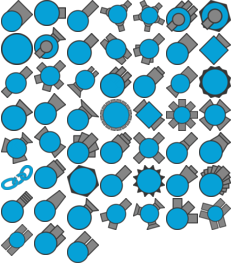
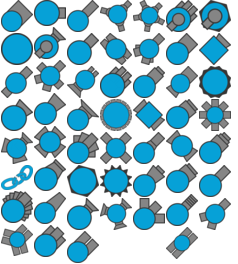
added new-skimmer image

Changed region(s): [[0.4118, 0.3636, 0.9706, 1.0], [0.0, 0.5455, 0.2941, 1.0], [0.2059, 0.4848, 0.2941, 0.5455]]

diff --git a/resources/assets/sass/_tanks.scss b/resources/assets/sass/_tanks.scss
@@ -5,12 +5,12 @@
 .battleship, .booster, .destroyer, .factory, .fighter,
 .flank-guard, .gunner-trapper, .gunner, .hunter, .hybrid,
 .landmine, .machine-gun, .manager, .mega-trapper, .mothership,
-.necromancer, .octo-tank, .overlord, .overseer, .overtrapper,
-.penta-shot, .predator, .quad-tank, .ranger, .rocketeer,
-.skimmer, .slave, .smasher, .sniper, .spike,
-.sprayer, .spread-shot, .stalker, .streamliner, .trapper,
-.tri-angle, .tri-trapper, .triple-shot, .triple-twin, .triplet,
-.twin-flank, .twin
+.necromancer, .new-skimmer, .octo-tank, .overlord, .overseer,
+.overtrapper, .penta-shot, .predator, .quad-tank, .ranger,
+.rocketeer, .skimmer, .slave, .smasher, .sniper,
+.spike, .sprayer, .spread-shot, .stalker, .streamliner,
+.trapper, .tri-angle, .tri-trapper, .triple-shot, .triple-twin,
+.triplet, .twin-flank, .twin
 { display: inline-block; background: url('images/tanks.png') no-repeat; overflow: hidden; text-indent: -9999px; text-align: left; }
 
 .annihilator { background-position: -1px -0px; width: 32px; height: 32px; }
@@ -39,29 +39,30 @@
 .mega-trapper { background-position: -67px -99px; width: 32px; height: 32px; }
 .mothership { background-position: -100px -99px; width: 32px; height: 32px; }
 .necromancer { background-position: -133px -99px; width: 32px; height: 32px; }
-.octo-tank { background-position: -166px -99px; width: 32px; height: 32px; }
-.overlord { background-position: -199px -99px; width: 32px; height: 32px; }
-.overseer { background-position: -34px -126px; width: 32px; height: 32px; }
+.new-skimmer { background-position: -166px -99px; width: 32px; height: 30px; }
+.octo-tank { background-position: -199px -99px; width: 32px; height: 32px; }
+.overlord { background-position: -34px -126px; width: 32px; height: 32px; }
+.overseer { background-position: -166px -130px; width: 32px; height: 32px; }
 .overtrapper { background-position: -1px -132px; width: 32px; height: 32px; }
 .penta-shot { background-position: -67px -132px; width: 32px; height: 32px; }
-.predator { background-position: -100px -132px; width: 32px; height: 32px; }
-.quad-tank { background-position: -133px -132px; width: 32px; height: 32px; }
-.ranger { background-position: -166px -132px; width: 32px; height: 32px; }
-.rocketeer { background-position: -199px -132px; width: 32px; height: 32px; }
-.skimmer { background-position: -34px -159px; width: 32px; height: 30px; }
+.predator { background-position: -199px -132px; width: 32px; height: 32px; }
+.quad-tank { background-position: -100px -132px; width: 32px; height: 32px; }
+.ranger { background-position: -133px -132px; width: 32px; height: 32px; }
+.rocketeer { background-position: -34px -159px; width: 32px; height: 32px; }
+.skimmer { background-position: -166px -163px; width: 32px; height: 30px; }
 .slave { background-position: -1px -165px; width: 32px; height: 25px; }
 .smasher { background-position: -67px -165px; width: 32px; height: 32px; }
-.sniper { background-position: -100px -165px; width: 32px; height: 32px; }
-.spike { background-position: -133px -165px; width: 32px; height: 32px; }
-.sprayer { background-position: -166px -165px; width: 32px; height: 32px; }
-.spread-shot { background-position: -199px -165px; width: 32px; height: 32px; }
-.stalker { background-position: -34px -190px; width: 32px; height: 32px; }
-.streamliner { background-position: -1px -191px; width: 32px; height: 32px; }
+.sniper { background-position: -199px -165px; width: 32px; height: 32px; }
+.spike { background-position: -100px -165px; width: 32px; height: 32px; }
+.sprayer { background-position: -133px -165px; width: 32px; height: 32px; }
+.spread-shot { background-position: -1px -191px; width: 32px; height: 32px; }
+.stalker { background-position: -34px -192px; width: 32px; height: 32px; }
+.streamliner { background-position: -166px -194px; width: 32px; height: 32px; }
 .trapper { background-position: -67px -198px; width: 32px; height: 32px; }
-.tri-angle { background-position: -100px -198px; width: 32px; height: 32px; }
-.tri-trapper { background-position: -133px -198px; width: 32px; height: 32px; }
-.triple-shot { background-position: -166px -198px; width: 32px; height: 32px; }
-.triple-twin { background-position: -199px -198px; width: 32px; height: 32px; }
-.triplet { background-position: -34px -223px; width: 32px; height: 32px; }
-.twin-flank { background-position: -1px -224px; width: 32px; height: 32px; }
+.tri-angle { background-position: -199px -198px; width: 32px; height: 32px; }
+.tri-trapper { background-position: -100px -198px; width: 32px; height: 32px; }
+.triple-shot { background-position: -133px -198px; width: 32px; height: 32px; }
+.triple-twin { background-position: -1px -224px; width: 32px; height: 32px; }
+.triplet { background-position: -34px -225px; width: 32px; height: 32px; }
+.twin-flank { background-position: -166px -227px; width: 32px; height: 32px; }
 .twin { background-position: -67px -231px; width: 32px; height: 32px; }
